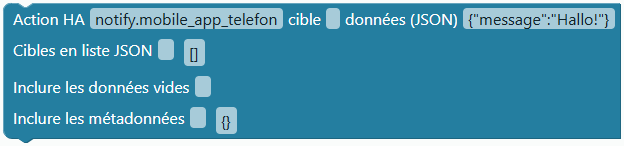
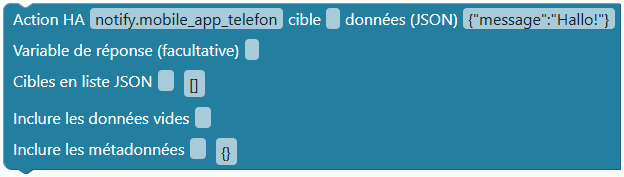
Document Blocks 0.1.32 calendar triggers and response variables in DE EN FR

Changed region(s): [[0.0, 0.0, 1.0, 0.9863]]

diff --git a/docs/projects/blocks-for-ha/blocks.md b/docs/projects/blocks-for-ha/blocks.md
@@ -5,9 +5,9 @@ description: Alle UGSo Blocks für HA mit Bild, Funktion und Originalplugins.
 
 # Liste der Blocks
 
-Entitätsfelder öffnen seit 0.1.17 einen Suchdialog. [Entitäten laden, auswählen und manuell eingeben](./entities). Die 115 Blocktypen und Ausgabeformate bleiben erhalten.
+Entitätsfelder öffnen seit 0.1.17 einen Suchdialog. [Entitäten laden, auswählen und manuell eingeben](./entities). Die 116 Blocktypen und Ausgabeformate bleiben erhalten.
 
-Stand **0.1.17**: 115 Blocktypen. Die Bilder zeigen die tatsächlichen UGSo-Blocks im Editor. Dropdown-Varianten zählen nicht als zusätzliche Blocktypen. Anleitungen und ioBroker-Gegenüberstellung: [Datum und Zeit](./time), [Konvertierung](./conversion).
+Stand **0.1.17**: 116 Blocktypen. Die Bilder zeigen die tatsächlichen UGSo-Blocks im Editor. Dropdown-Varianten zählen nicht als zusätzliche Blocktypen. Anleitungen und ioBroker-Gegenüberstellung: [Datum und Zeit](./time), [Konvertierung](./conversion).
 
 Auslöser sind orange, Bedingungen violett, Werte grün und Aktionen blau. Seitliche Anschlüsse sind typisiert; Auslöser und Aktionen bilden getrennte vertikale Ketten. Entitäts-IDs werden gesucht oder manuell eingegeben.
 
@@ -221,7 +221,7 @@ Die Farbauswahl verwendet zusätzlich die indirekte Abhängigkeit [field-grid-dr
 
 [Zur Übersicht](/projects/blocks-for-ha/)
 
-Benutzerdefinierte Blocks seit 0.1.18 ergänzen die 115 nativen Typen. [Editor](./custom-blocks) und [Paketkatalog](./catalog/).
+Benutzerdefinierte Blocks seit 0.1.18 ergänzen die 116 nativen Typen. [Editor](./custom-blocks) und [Paketkatalog](./catalog/).
 
 ## Trigger-IDs und mehrere Ziele
 
@@ -248,10 +248,22 @@ Seit **0.1.30**: Ein Zeit-Auslöser akzeptiert über **Uhrzeiten als JSON-Liste*
 
 ## Temperatur geändert
 
-Seit **0.1.31** unterstützt der neue Block den nativen Auslöser temperature.changed. Ziel (JSON): entity_id als Text oder Liste. Schwelle (JSON): type any, above, below, between oder outside. any benötigt nur type; above/below benötigen value, between/outside value_min und value_max. Zahlen: number plus unit_of_measurement (°C/°F). Referenzen: entity (sensor, number oder input_number). Optional ist eine Trigger-ID. Andere Zielarten (Bereich/Gerät/Label) sind noch nicht importierbar. MQTT-Topics, qos/retain/evaluate_payload und mehrzeilige JSON-/Jinja-Payloads bleiben erhalten.
+Seit **0.1.32** unterstützt der neue Block den nativen Auslöser temperature.changed. Ziel (JSON): entity_id als Text oder Liste. Schwelle (JSON): type any, above, below, between oder outside. any benötigt nur type; above/below benötigen value, between/outside value_min und value_max. Zahlen: number plus unit_of_measurement (°C/°F). Referenzen: entity (sensor, number oder input_number). Optional ist eine Trigger-ID. Andere Zielarten (Bereich/Gerät/Label) sind noch nicht importierbar. MQTT-Topics, qos/retain/evaluate_payload und mehrzeilige JSON-/Jinja-Payloads bleiben erhalten.
 
 | Block | Bild | Funktion |
 | --- | --- | --- |
 | **Temperatur geändert**<br><code>ugso_temperature_trigger</code> | <img src="/assets/blocks-for-ha/blocks/de/ugso_temperature_trigger.png" alt="Temperatur geändert" style="max-width:280px;max-height:180px"> | temperature.changed |
 
 [Home Assistant: temperature.changed](https://www.home-assistant.io/triggers/temperature.changed/)
+
+## Kalender und Antwortvariablen
+
+**0.1.32:** `calendar.event_started` / `calendar.event_ended`. Ziel: JSON-Objekt mit `entity_id` als Text oder Liste. Optionen sind optional: `offset` mit Tagen, Stunden, Minuten und Sekunden (kombinierbar) oder `HH:MM:SS`; `offset_type` ist `before` oder `after`. Null-Offset, ausgelassene Optionen und optionale Auslöser-ID bleiben erhalten.
+
+Das Feld **Antwortvariable (optional)** im Block **HA-Aktion** erzeugt `response_variable`, zum Beispiel `termine` für `calendar.get_events`. Leer lässt das Feld im YAML weg. Die vollständige Feiertage-/Ferien-Automation erhält beide Kalender, den HA-Start, Variablen zeitpunkt/termin_aktiv, mehrzeilige Jinja-Templates, choose/default und queued. Home Assistant verarbeitet die Kalender und Templates.
+
+| Block | Bild | Funktion |
+| --- | --- | --- |
+| **Kalendertermin beginnt/endet**<br><code>ugso_calendar_trigger</code> | <img src="/assets/blocks-for-ha/blocks/de/ugso_calendar_trigger.png" alt="Kalendertermin beginnt/endet" style="max-width:280px;max-height:180px"> | calendar.event_started / calendar.event_ended |
+
+[Home Assistant: calendar.event_started](https://www.home-assistant.io/triggers/calendar.event_started/) · [calendar.event_ended](https://www.home-assistant.io/triggers/calendar.event_ended/) · [calendar.get_events](https://www.home-assistant.io/actions/calendar.get_events/)

diff --git a/docs/en/projects/blocks-for-ha/blocks.md b/docs/en/projects/blocks-for-ha/blocks.md
@@ -5,9 +5,9 @@ description: All UGSo Blocks for HA with images, functionality and original plug
 
 # Block catalog
 
-Since 0.1.17, entity fields open a search dialog. [Load, select and manually enter entities](./entities). The 115 block types and output formats remain unchanged.
+Since 0.1.17, entity fields open a search dialog. [Load, select and manually enter entities](./entities). The 116 block types and output formats remain unchanged.
 
-Version **0.1.17**: 115 block types. Images show actual UGSo editor blocks. Guides and ioBroker comparison: [Date and time](./time), [Conversion](./conversion). Dropdown variants do not count as additional types.
+Version **0.1.17**: 116 block types. Images show actual UGSo editor blocks. Guides and ioBroker comparison: [Date and time](./time), [Conversion](./conversion). Dropdown variants do not count as additional types.
 
 Triggers are orange, conditions purple, values green and actions blue. Side connections are typed; triggers and actions form separate vertical chains. Entity IDs are searched or entered manually.
 
@@ -221,7 +221,7 @@ The colour field also uses the transitive dependency [field-grid-dropdown](https
 
 [Back to overview](/en/projects/blocks-for-ha/)
 
-Custom blocks since 0.1.18 extend the 115 native types. [Editor](./custom-blocks) and [package catalog](./catalog/).
+Custom blocks since 0.1.18 extend the 116 native types. [Editor](./custom-blocks) and [package catalog](./catalog/).
 
 ## Trigger IDs and multiple targets
 
@@ -248,10 +248,22 @@ Since **0.1.30**: enable **Times as JSON list** for several fixed times, e.g. `[
 
 ## Temperature changed
 
-Since **0.1.31**, the new block supports native temperature.changed. Target (JSON): entity_id string or list. Threshold (JSON): type any, above, below, between or outside. any requires only type; above/below require value, between/outside value_min and value_max. Numbers: number plus unit_of_measurement (°C/°F). References: entity (sensor, number or input_number). Optional trigger ID. Other targets (area/device/label) remain unsupported. MQTT topics, qos/retain/evaluate_payload and multiline JSON/Jinja payloads are preserved.
+Since **0.1.32**, the new block supports native temperature.changed. Target (JSON): entity_id string or list. Threshold (JSON): type any, above, below, between or outside. any requires only type; above/below require value, between/outside value_min and value_max. Numbers: number plus unit_of_measurement (°C/°F). References: entity (sensor, number or input_number). Optional trigger ID. Other targets (area/device/label) remain unsupported. MQTT topics, qos/retain/evaluate_payload and multiline JSON/Jinja payloads are preserved.
 
 | Block | Image | Description |
 | --- | --- | --- |
 | **Temperature changed**<br><code>ugso_temperature_trigger</code> | <img src="/assets/blocks-for-ha/blocks/en/ugso_temperature_trigger.png" alt="Temperature changed" style="max-width:280px;max-height:180px"> | temperature.changed |
 
 [Home Assistant: temperature.changed](https://www.home-assistant.io/triggers/temperature.changed/)
+
+## Calendars and response variables
+
+**0.1.32:** `calendar.event_started` / `calendar.event_ended`. Target: JSON object with `entity_id` as text or a list. Options are optional: `offset` with combined days, hours, minutes and seconds or `HH:MM:SS`; `offset_type` is `before` or `after`. Zero offsets, omitted options and optional trigger IDs are retained.
+
+The **Response variable (optional)** field in **HA action** generates `response_variable`, for example `termine` for `calendar.get_events`. An empty field omits it from YAML. The full holiday automation retains both calendars, HA startup, zeitpunkt/termin_aktiv variables, multiline Jinja templates, choose/default and queued mode. Home Assistant processes calendars and templates.
+
+| Block | Image | Function |
+| --- | --- | --- |
+| **Calendar event starts/ends**<br><code>ugso_calendar_trigger</code> | <img src="/assets/blocks-for-ha/blocks/en/ugso_calendar_trigger.png" alt="Calendar event starts/ends" style="max-width:280px;max-height:180px"> | calendar.event_started / calendar.event_ended |
+
+[Home Assistant: calendar.event_started](https://www.home-assistant.io/triggers/calendar.event_started/) · [calendar.event_ended](https://www.home-assistant.io/triggers/calendar.event_ended/) · [calendar.get_events](https://www.home-assistant.io/actions/calendar.get_events/)

diff --git a/docs/fr/projects/blocks-for-ha/blocks.md b/docs/fr/projects/blocks-for-ha/blocks.md
@@ -5,7 +5,7 @@ description: Tous les blocs UGSo avec images françaises et fonctions.
 
 # Catalogue des blocs
 
-**0.1.28 · 115 types**. Les images montrent les vrais blocs Blockly en français. Les variantes des menus déroulants ne sont pas des types supplémentaires. Les IDs techniques restent identiques en DE/EN/FR. Les textes et entités d’exemple gardent leurs valeurs d’origine.
+**0.1.28 · 116 types**. Les images montrent les vrais blocs Blockly en français. Les variantes des menus déroulants ne sont pas des types supplémentaires. Les IDs techniques restent identiques en DE/EN/FR. Les textes et entités d’exemple gardent leurs valeurs d’origine.
 
 Déclencheurs orange, conditions violettes, valeurs vertes, actions bleues avec le thème UGSo Standard. Les autres palettes adaptent les couleurs. [Usage et import](./) · [Paquets personnalisés](./custom-blocks).
 
@@ -259,10 +259,22 @@ Depuis **0.1.30** : activer **Heures en liste JSON** pour plusieurs heures fixes
 
 ## Température modifiée
 
-Depuis **0.1.31**, le nouveau bloc prend en charge temperature.changed natif. Cible (JSON) : entity_id texte ou liste. Seuil (JSON) : type any, above, below, between ou outside. any exige seulement type ; above/below exigent value, between/outside value_min et value_max. Nombres : number et unit_of_measurement (°C/°F). Références : entity (sensor, number ou input_number). ID facultatif. Autres cibles (zone/appareil/étiquette) non prises en charge. Les topics MQTT, qos/retain/evaluate_payload et contenus JSON/Jinja multilignes restent présents.
+Depuis **0.1.32**, le nouveau bloc prend en charge temperature.changed natif. Cible (JSON) : entity_id texte ou liste. Seuil (JSON) : type any, above, below, between ou outside. any exige seulement type ; above/below exigent value, between/outside value_min et value_max. Nombres : number et unit_of_measurement (°C/°F). Références : entity (sensor, number ou input_number). ID facultatif. Autres cibles (zone/appareil/étiquette) non prises en charge. Les topics MQTT, qos/retain/evaluate_payload et contenus JSON/Jinja multilignes restent présents.
 
 | Block | Image | Description |
 | --- | --- | --- |
 | **Température modifiée**<br><code>ugso_temperature_trigger</code> | <img src="/assets/blocks-for-ha/blocks/fr/ugso_temperature_trigger.png" alt="Température modifiée" style="max-width:280px;max-height:180px"> | temperature.changed |
 
 [Home Assistant: temperature.changed](https://www.home-assistant.io/triggers/temperature.changed/)
+
+## Calendriers et variables de réponse
+
+**0.1.32:** `calendar.event_started` / `calendar.event_ended`. Cible : objet JSON avec `entity_id` en texte ou liste. Options facultatives : `offset` avec jours, heures, minutes et secondes combinés ou `HH:MM:SS` ; `offset_type` vaut `before` ou `after`. Décalage nul, options absentes et ID de déclencheur facultatif sont conservés.
+
+Le champ **Variable de réponse (facultative)** du bloc **Action HA** génère `response_variable`, par exemple `termine` pour `calendar.get_events`. Vide, il omet ce champ du YAML. L’automation complète de jours fériés/vacances conserve les deux calendriers, le démarrage HA, les variables zeitpunkt/termin_aktiv, les modèles Jinja multilignes, choose/default et le mode queued. Home Assistant traite les calendriers et les modèles.
+
+| Bloc | Image | Fonction |
+| --- | --- | --- |
+| **Début/fin d’un événement calendrier**<br><code>ugso_calendar_trigger</code> | <img src="/assets/blocks-for-ha/blocks/fr/ugso_calendar_trigger.png" alt="Début/fin d’un événement calendrier" style="max-width:280px;max-height:180px"> | calendar.event_started / calendar.event_ended |
+
+[Home Assistant: calendar.event_started](https://www.home-assistant.io/triggers/calendar.event_started/) · [calendar.event_ended](https://www.home-assistant.io/triggers/calendar.event_ended/) · [calendar.get_events](https://www.home-assistant.io/actions/calendar.get_events/)

diff --git a/docs/projects/blocks-for-ha/index.md b/docs/projects/blocks-for-ha/index.md
@@ -12,7 +12,7 @@ Neu in **0.1.17**: Entitäten aus HA laden und in vorhandenen Blockfeldern nach 
 
 Neu in **0.1.16**: Theme-Auswahl UGSo Standard/Dark/Modern/Tritanopia und Zoom-to-fit-Knopf. Auswahl wird lokal gespeichert; eigene Blocks folgen den Paletten. [Bedienung, Bilder und Originalquellen](./themes). Weiterhin 111 Blocktypen.
 
-**Version 0.1.31 · experimentelle HA-App.** Mit visuellen Blocks entstehen native Home-Assistant-Automationen. Der Editor erzeugt YAML; Home Assistant übernimmt die Ausführung. Entitätsauswahl aus HA ist seit 0.1.17 vorhanden; Live-Aktionsauswahl bleibt geplant.
+**Version 0.1.32 · experimentelle HA-App.** Mit visuellen Blocks entstehen native Home-Assistant-Automationen. Der Editor erzeugt YAML; Home Assistant übernimmt die Ausführung. Entitätsauswahl aus HA ist seit 0.1.17 vorhanden; Live-Aktionsauswahl bleibt geplant.
 
 Seit **0.1.25** rechts **YAML → Code importieren** wählen, YAML einfügen und **Importieren** statt Speichern klicken. Ohne Haken werden Auslöser, Bedingungen und Aktionen ergänzt; Name, Einstellungen und bestehende Blockformen bleiben erhalten. Bedingungen werden gemeinsam als UND geprüft; zusätzliche Auslöser können weitere Starts verursachen. Zum vollständigen Ersetzen **Aktuelle Automation vollständig ersetzen** aktivieren und die Abfrage bestätigen. Unterstützt wird eine Automation als Objekt oder Liste mit einem Eintrag, maximal 1 MB. Ungültiger Code oder Abbruch lässt die aktuellen Blocks erhalten. Einfügetext bleibt beim Moduswechsel für diese Seite erhalten; nach Erfolg erscheint wieder die Ausgabe. Zum Ergänzen muss die aktuelle Automation gültig sein; vollständiger Ersatz funktioniert auch bei unvollständigen Blocks. Dateiimport über **Öffnen** bleibt verfügbar.
 
@@ -210,3 +210,5 @@ Seit **0.1.30**: Ein Zeit-Auslöser akzeptiert über **Uhrzeiten als JSON-Liste*
 Seit **0.1.31** unterstützt der neue Block den nativen Auslöser temperature.changed. Ziel (JSON): entity_id als Text oder Liste. Schwelle (JSON): type any, above, below, between oder outside. any benötigt nur type; above/below benötigen value, between/outside value_min und value_max. Zahlen: number plus unit_of_measurement (°C/°F). Referenzen: entity (sensor, number oder input_number). Optional ist eine Trigger-ID. Andere Zielarten (Bereich/Gerät/Label) sind noch nicht importierbar. MQTT-Topics, qos/retain/evaluate_payload und mehrzeilige JSON-/Jinja-Payloads bleiben erhalten.
 
 [Home Assistant: temperature.changed](https://www.home-assistant.io/triggers/temperature.changed/)
+
+**0.1.32:** Kalender und Antwortvariablen. [→](./blocks)

diff --git a/docs/en/projects/blocks-for-ha/index.md b/docs/en/projects/blocks-for-ha/index.md
@@ -12,7 +12,7 @@ New in **0.1.17**: Load entities from HA and search existing block fields by nam
 
 New in **0.1.16**: UGSo Standard/Dark/Modern/Tritanopia selector and zoom-to-fit control. Choice saved locally; own blocks follow palettes. [Usage, images and upstream sources](./themes). Still 111 block types.
 
-**Version 0.1.31 · experimental HA app.** Visual Blocks generate native Home Assistant automation YAML. Home Assistant runs the automation. HA entity selection is available since 0.1.17; live action selection remains planned.
+**Version 0.1.32 · experimental HA app.** Visual Blocks generate native Home Assistant automation YAML. Home Assistant runs the automation. HA entity selection is available since 0.1.17; live action selection remains planned.
 
 Since **0.1.25**, select **YAML → Code importieren**, paste YAML and click **Importieren** instead of Save. Without the checkbox, triggers, conditions and actions are added; the current name, settings and block shapes are preserved. Conditions are combined with AND; additional triggers may start more runs. To replace everything, select **Aktuelle Automation vollständig ersetzen** and confirm. One supported automation as an object or single-item list is accepted, up to 1 MB. Invalid code or cancellation leaves the current blocks unchanged. Switching modes retains pasted text for this page session; successful import returns to output. Adding requires a valid current automation; complete replacement also works with incomplete blocks. File import through **Öffnen** remains available.
 
@@ -210,3 +210,5 @@ Since **0.1.30**: enable **Times as JSON list** for several fixed times, e.g. `[
 Since **0.1.31**, the new block supports native temperature.changed. Target (JSON): entity_id string or list. Threshold (JSON): type any, above, below, between or outside. any requires only type; above/below require value, between/outside value_min and value_max. Numbers: number plus unit_of_measurement (°C/°F). References: entity (sensor, number or input_number). Optional trigger ID. Other targets (area/device/label) remain unsupported. MQTT topics, qos/retain/evaluate_payload and multiline JSON/Jinja payloads are preserved.
 
 [Home Assistant: temperature.changed](https://www.home-assistant.io/triggers/temperature.changed/)
+
+**0.1.32:** Calendars and response variables. [→](./blocks)

diff --git a/docs/fr/projects/blocks-for-ha/index.md b/docs/fr/projects/blocks-for-ha/index.md
@@ -7,7 +7,7 @@ description: Créer visuellement des automatisations Home Assistant avec Blockly
 
 UGSo Blocks for HA assemble des automatisations Home Assistant avec des blocs visuels. Les déclencheurs, conditions et actions produisent du YAML natif ; les expressions utilisent Jinja dans Home Assistant. Blockly fournit l’éditeur, pas le moteur d’exécution de HA.
 
-**Version 0.1.31 · 111 types de blocs · code source Apache-2.0**
+**Version 0.1.32 · 111 types de blocs · code source Apache-2.0**
 
 [Code source sur GitHub](https://github.com/rockbaer2007/ugso-ha-mqtt-addons/tree/master/blocks_for_ha) · [Documentation DE](/projects/blocks-for-ha/) · [Documentation EN](/en/projects/blocks-for-ha/)
 
@@ -97,3 +97,5 @@ Depuis **0.1.30** : activer **Heures en liste JSON** pour plusieurs heures fixes
 Depuis **0.1.31**, le nouveau bloc prend en charge temperature.changed natif. Cible (JSON) : entity_id texte ou liste. Seuil (JSON) : type any, above, below, between ou outside. any exige seulement type ; above/below exigent value, between/outside value_min et value_max. Nombres : number et unit_of_measurement (°C/°F). Références : entity (sensor, number ou input_number). ID facultatif. Autres cibles (zone/appareil/étiquette) non prises en charge. Les topics MQTT, qos/retain/evaluate_payload et contenus JSON/Jinja multilignes restent présents.
 
 [Home Assistant: temperature.changed](https://www.home-assistant.io/triggers/temperature.changed/)
+
+**0.1.32:** Calendriers et variables de réponse. [→](./blocks)
